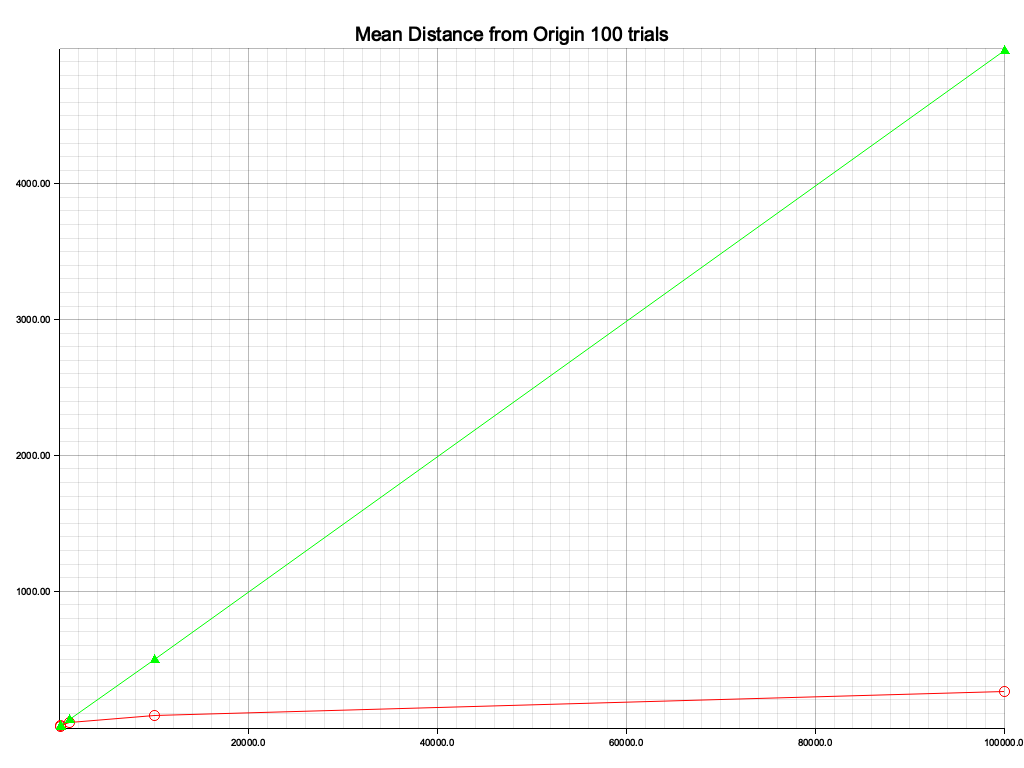
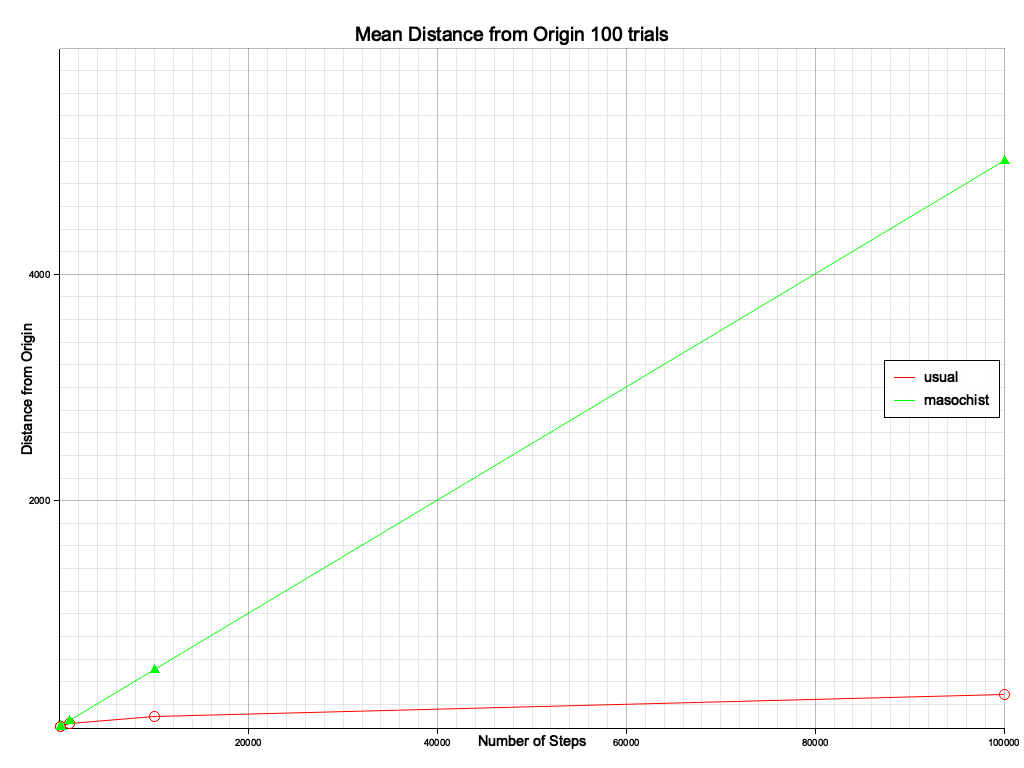
add legend and description of axis

diff --git a/random-walk/src/main.rs b/random-walk/src/main.rs
@@ -145,13 +145,17 @@ fn sim_all(
         .caption(title, ("sans-serif", 24).into_font())
         .x_label_area_size::<u32>(20)
         .y_label_area_size::<u32>(40)
-        .build_cartesian_2d(0f32..100_000f32, 0f32..5_000f32)?;
+        .build_cartesian_2d(0f32..100_000f32, 0f32..6_000f32)?;
 
     chart
         .configure_mesh()
         .x_labels(5)
         .y_labels(5)
-        .y_label_formatter(&|x| format!("{:.2}", x))
+        .y_label_formatter(&|x| format!("{:.0}", x))
+        .x_label_formatter(&|x| format!("{:.0}", x))
+        .y_desc("Distance from Origin")
+        .x_desc("Number of Steps")
+        .axis_desc_style(("sans-serif", 18))
         .draw()?;
 
     for (i, drunk) in drunks.iter().enumerate() {
@@ -171,15 +175,27 @@ fn sim_all(
         chart.draw_series(LineSeries::new(points.clone(), &color))?;
 
         if i == 0 {
-            chart.draw_series(points.iter().map(|point| Circle::new(*point, 5, &RED)))?;
+            chart
+                .draw_series(points.iter().map(|point| Circle::new(*point, 5, &RED)))?
+                .label(drunk.name())
+                .legend(|(x, y)| PathElement::new(vec![(x, y), (x + 20, y)], &RED));
         } else {
-            chart.draw_series(
-                points
-                    .iter()
-                    .map(|point| TriangleMarker::new(*point, 5, &GREEN)),
-            )?;
+            chart
+                .draw_series(
+                    points
+                        .iter()
+                        .map(|point| TriangleMarker::new(*point, 5, &GREEN)),
+                )?
+                .label(drunk.name())
+                .legend(|(x, y)| PathElement::new(vec![(x, y), (x + 20, y)], &GREEN));
         };
     }
+    chart
+        .configure_series_labels()
+        .border_style(&BLACK)
+        .background_style(&WHITE.mix(0.8))
+        .label_font(("sans-serif", 18))
+        .draw()?;
 
     Ok(())
 }
